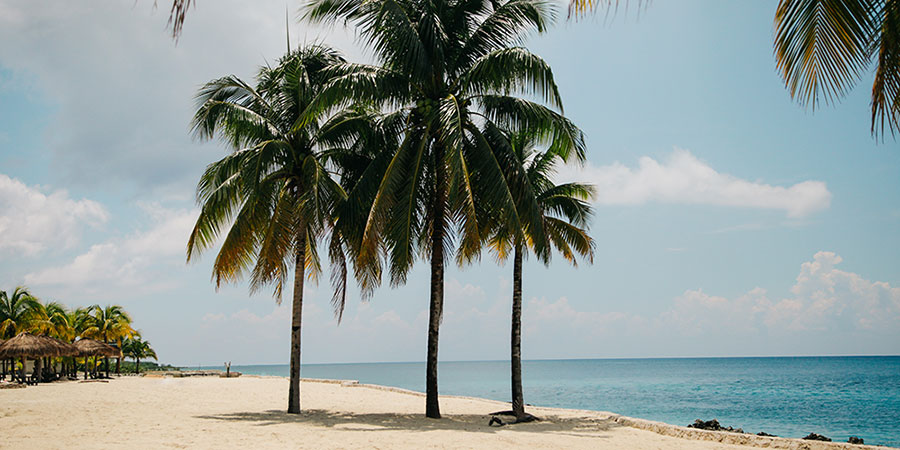
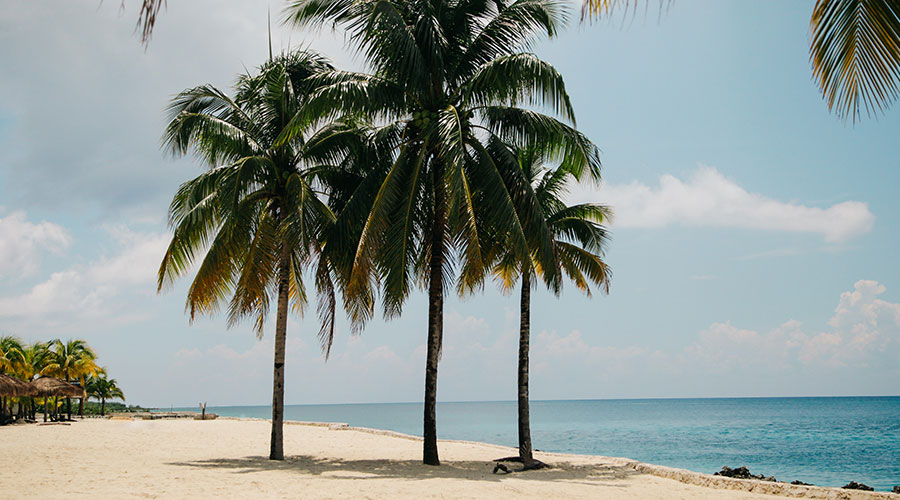
image

diff --git a/scoots/css/styles.css b/scoots/css/styles.css
@@ -825,6 +825,20 @@ section.tours-intro div.tours-intro-copy h2 {
   section.more-information figure:hover {
     box-shadow: 0 0 20px #425561;
   }
+
+  /*-----------TOURS PAGE-------------------*/
+  section.tours-intro {
+    display: grid;
+    grid-template-columns: 1fr 1fr;
+  }
+  section.tours-intro picture {
+    grid-column: 1 / 3;
+    grid-row: 1 / 6;
+  }
+  section.tours-intro div.tours-intro-copy {
+    grid-column: 1 / 3;
+    grid-row: 2 / 3;
+  }
 }
 /*-------------LARGE CSS--------------*/
 @media only screen and (min-width: 900px) {

diff --git a/scoots/scss/_medium.scss b/scoots/scss/_medium.scss
@@ -147,3 +147,16 @@ section.more-information {
         box-shadow: 0 0 20px $charcoal;
     }
 }
+/*-----------TOURS PAGE-------------------*/
+section.tours-intro {
+    display: grid;
+    grid-template-columns: 1fr 1fr;
+    picture {
+        grid-column: 1 / 3;
+        grid-row: 1 / 6;
+    }
+    div.tours-intro-copy {
+        grid-column: 1 / 3;
+        grid-row: 2 / 3;
+    }
+}
